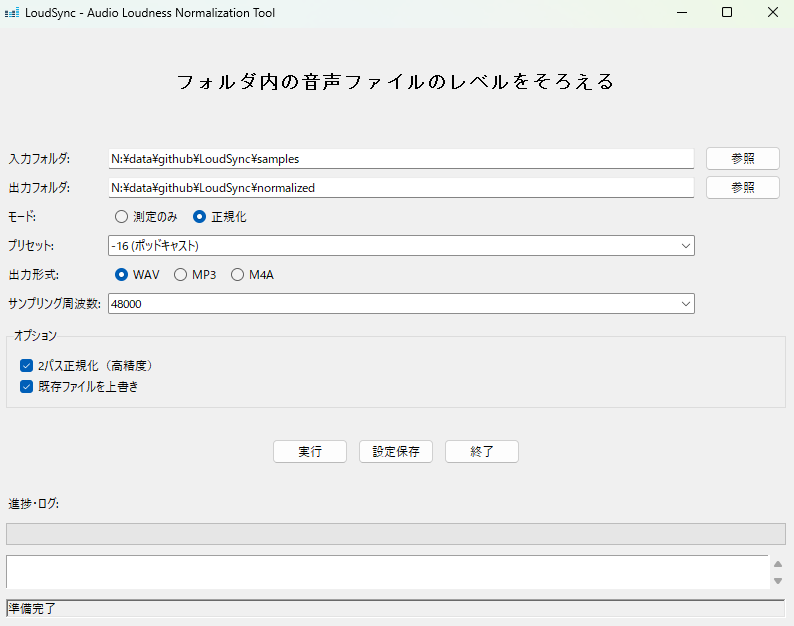
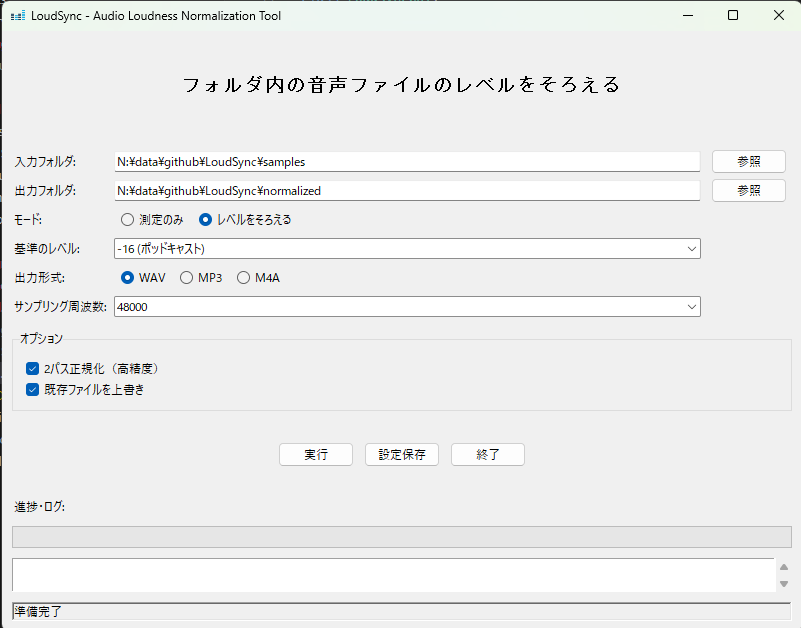
文言修正

diff --git a/main.py b/main.py
@@ -128,16 +128,16 @@ class LoudSyncGUI:
         mode_frame.grid(row=row, column=1, sticky=(tk.W, tk.E), padx=5)
         ttk.Radiobutton(mode_frame, text="測定のみ", variable=self.mode_var,
                         value="measure", command=self.on_mode_change).pack(side=tk.LEFT, padx=5)
-        ttk.Radiobutton(mode_frame, text="正規化", variable=self.mode_var,
+        ttk.Radiobutton(mode_frame, text="レベルをそろえる", variable=self.mode_var,
                         value="normalize", command=self.on_mode_change).pack(side=tk.LEFT, padx=5)
         row += 1
 
         # Preset selection
-        self.preset_label = ttk.Label(main_frame, text="プリセット:")
+        self.preset_label = ttk.Label(main_frame, text="基準のレベル:")
         self.preset_label.grid(row=row, column=0, sticky=tk.W, pady=5)
         preset_values = ["-16", "-18", "-19", "-20", "-23", "reffile"]
         preset_labels = ["-16 (ポッドキャスト)", "-18 (BGM)", "-19 (BGM)",
-                         "-20 (BGM)", "-23 (放送)", "reffile (参照ファイル)"]
+                         "-20 (BGM)", "-23 (放送)", "参照ファイルに合わせる"]
         self.preset_combo = ttk.Combobox(main_frame, textvariable=self.preset_var,
                                          values=preset_labels,
                                          state="readonly", width=47)
